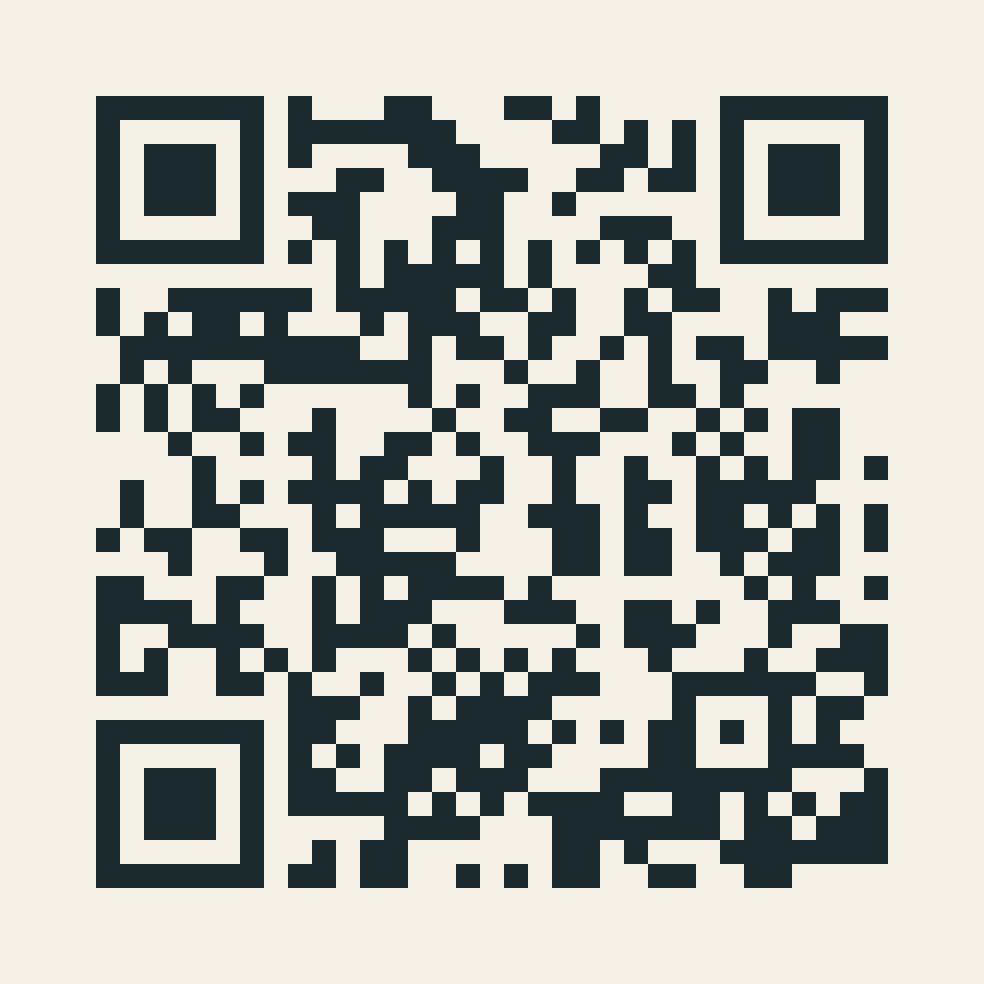
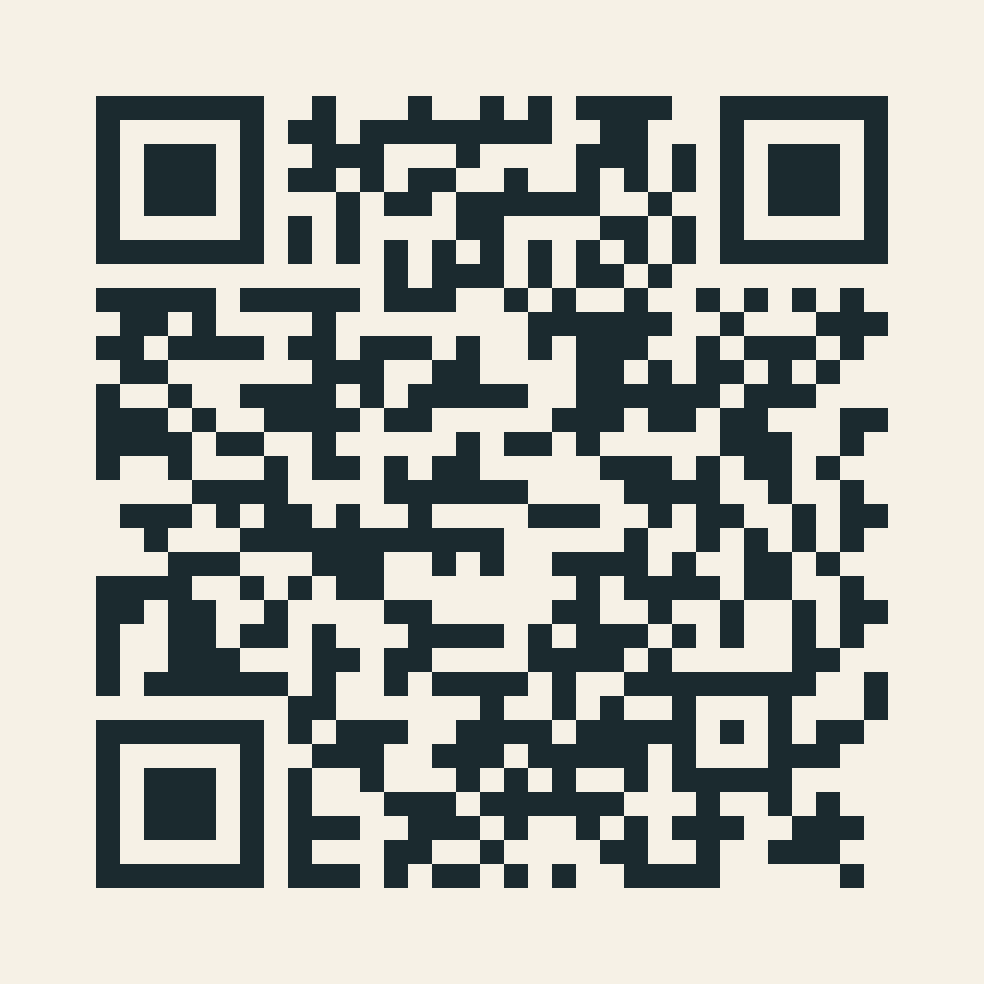
vaultClaseProfes: el QR lleva directo al Inicio de la guía

Changed region(s): [[0.0915, 0.0915, 0.9146, 0.9146]]

diff --git a/vaultClaseProfes/herramientas/qr_v4m.py b/vaultClaseProfes/herramientas/qr_v4m.py
@@ -1,11 +1,17 @@
-"""Generador mínimo de QR versión 4, nivel M, modo byte (hasta 62 bytes). Solo usa PIL.
-Uso: python3 qr_v4m.py <texto> <salida.png> [escala] [color_oscuro] [color_claro]
+"""Generador mínimo de QR versión 4, modo byte. Nivel M (hasta 62 bytes) o L (hasta 78). Solo usa PIL.
+Uso: python3 qr_v4m.py <texto> <salida.png> [escala] [color_oscuro] [color_claro] [M|L]
 """
 import sys
 from PIL import Image
 
 SIZE = 33  # versión 4
-ECC_LEN, NUM_BLOCKS, DATA_CW = 18, 2, 64
+NIVELES = {"M": (18, 2, 64, 0b00), "L": (20, 1, 80, 0b01)}  # ecc por bloque, bloques, datos, bits de formato
+ECC_LEN, NUM_BLOCKS, DATA_CW, ECL_BITS = NIVELES["M"]
+
+
+def nivel(n):
+    global ECC_LEN, NUM_BLOCKS, DATA_CW, ECL_BITS
+    ECC_LEN, NUM_BLOCKS, DATA_CW, ECL_BITS = NIVELES[n]
 
 
 def gf_mul(x, y):
@@ -40,7 +46,7 @@ def rs_remainder(data, div):
 
 def encode_data(text):
     data = text.encode("utf-8")
-    assert len(data) <= 62, "demasiado largo para V4-M"
+    assert len(data) <= DATA_CW - 2, "demasiado largo para la versión 4"
     bits = []
     def put(v, n):
         bits.extend((v >> i) & 1 for i in reversed(range(n)))
@@ -97,7 +103,7 @@ class QR:
         self.format_bits(0)
 
     def format_bits(self, mask):
-        data = (0 << 3) | mask  # nivel M = 00
+        data = (ECL_BITS << 3) | mask
         rem = data
         for _ in range(10):
             rem = (rem << 1) ^ ((rem >> 9) * 0x537)
@@ -199,5 +205,6 @@ def render(q, path, scale=20, dark="#000000", light="#FFFFFF", border=4):
 
 if __name__ == "__main__":
     a = sys.argv
+    nivel(a[6] if len(a) > 6 else "M")
     render(make(a[1]), a[2], int(a[3]) if len(a) > 3 else 20,
            a[4] if len(a) > 4 else "#000000", a[5] if len(a) > 5 else "#FFFFFF")

diff --git a/vaultClaseProfes/Exposición/Hoja para repartir.md b/vaultClaseProfes/Exposición/Hoja para repartir.md
@@ -26,8 +26,8 @@ Una carilla A4 que resume la charla, con el QR de la guía. Está en `Exposició
 5. **Consignas que obligan a pensar**: ver [[04 Cómo usamos la IA los alumnos]].
 6. **Los niveles de la guía.**
 
-El QR lleva a `https://xaguhz.github.io/vaultColegio/vaultClaseProfes/`. Si cambia la dirección, se regenera con `herramientas/qr_v4m.py`:
+El QR lleva directo al Inicio: `https://xaguhz.github.io/vaultColegio/vaultClaseProfes/00-Inicio`. Si cambia la dirección, se regenera con `herramientas/qr_v4m.py`. El último argumento es el nivel de corrección: `L` admite hasta 78 letras y `M`, más resistente a manchas, hasta 62.
 
 ```bash
-python3 herramientas/qr_v4m.py "https://xaguhz.github.io/vaultColegio/vaultClaseProfes/" Adjuntos/qr_guia.png 24 "#1B2A2F" "#F6F1E6"
+python3 herramientas/qr_v4m.py "https://xaguhz.github.io/vaultColegio/vaultClaseProfes/00-Inicio" Adjuntos/qr_guia.png 24 "#1B2A2F" "#F6F1E6" L
 ```
